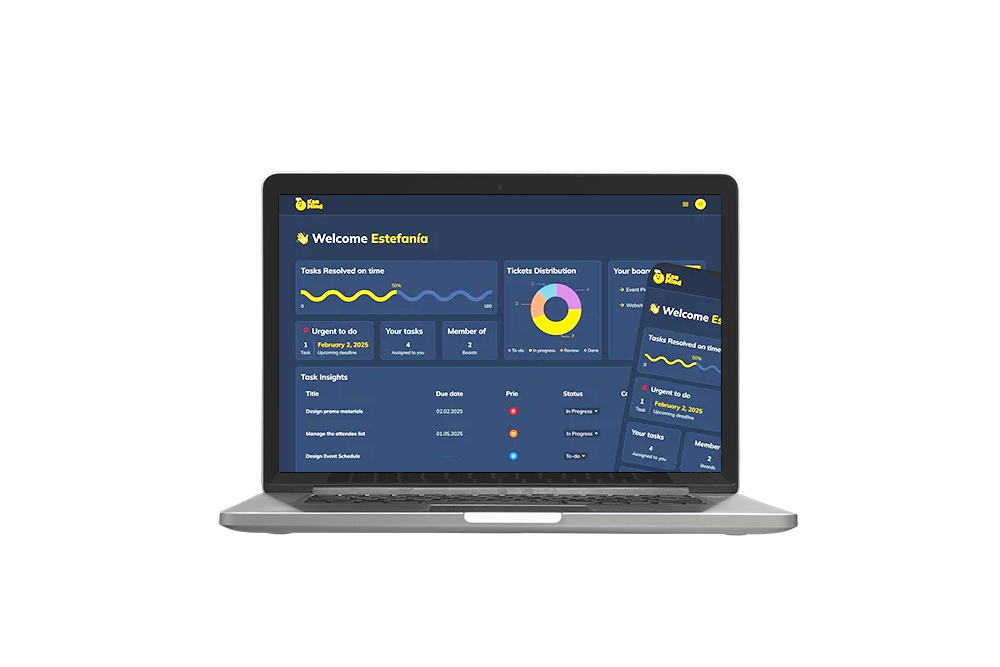
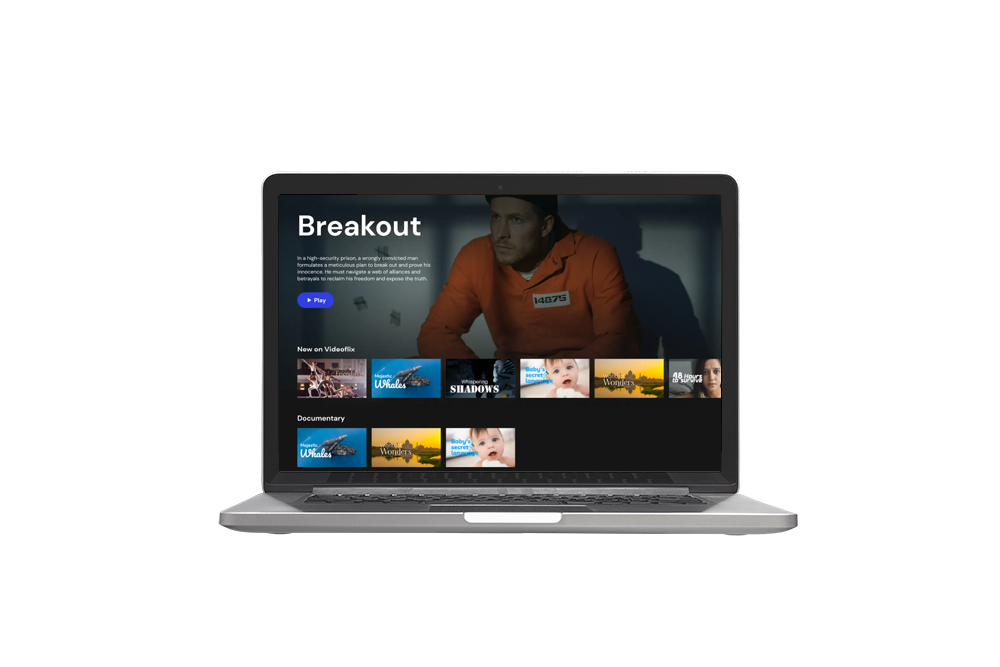
add new projects

Changed region(s): [[0.279, 0.2699, 0.744, 0.7196]]

diff --git a/src/app/main-content/portfolio/works/works.component.ts b/src/app/main-content/portfolio/works/works.component.ts
@@ -12,9 +12,9 @@ import { AfterViewChecked } from '@angular/core';
   styleUrl: './works.component.scss'
 })
 export class WorksComponent implements AfterViewInit, AfterViewChecked {
-  projectKeys = ['join', 'dabubble', 'sharkie', 'kanMind'];
-  projectLinks = ['http://join.bence-cservenyak.com','https://dabubble.bence-cservenyak.com/', 'http://sharkie.bence-cservenyak.com', 'noLink']
-  githubLinks = ['https://github.com/Hummner/join-448', 'https://github.com/Hummner/DABubble', 'https://github.com/Hummner/sharkie', 'https://github.com/Hummner/KanMind']
+  projectKeys = ['join', 'dabubble', 'coderr', 'videoflix'];
+  projectLinks = ['http://join.bence-cservenyak.com','https://dabubble.bence-cservenyak.com/', 'inProg', 'inProg']
+  githubLinks = ['https://github.com/Hummner/join-448', 'https://github.com/Hummner/DABubble', 'https://github.com/Hummner/coderr', 'https://github.com/Hummner/Videoflix']
   private aosInitialized = false;
 
 
